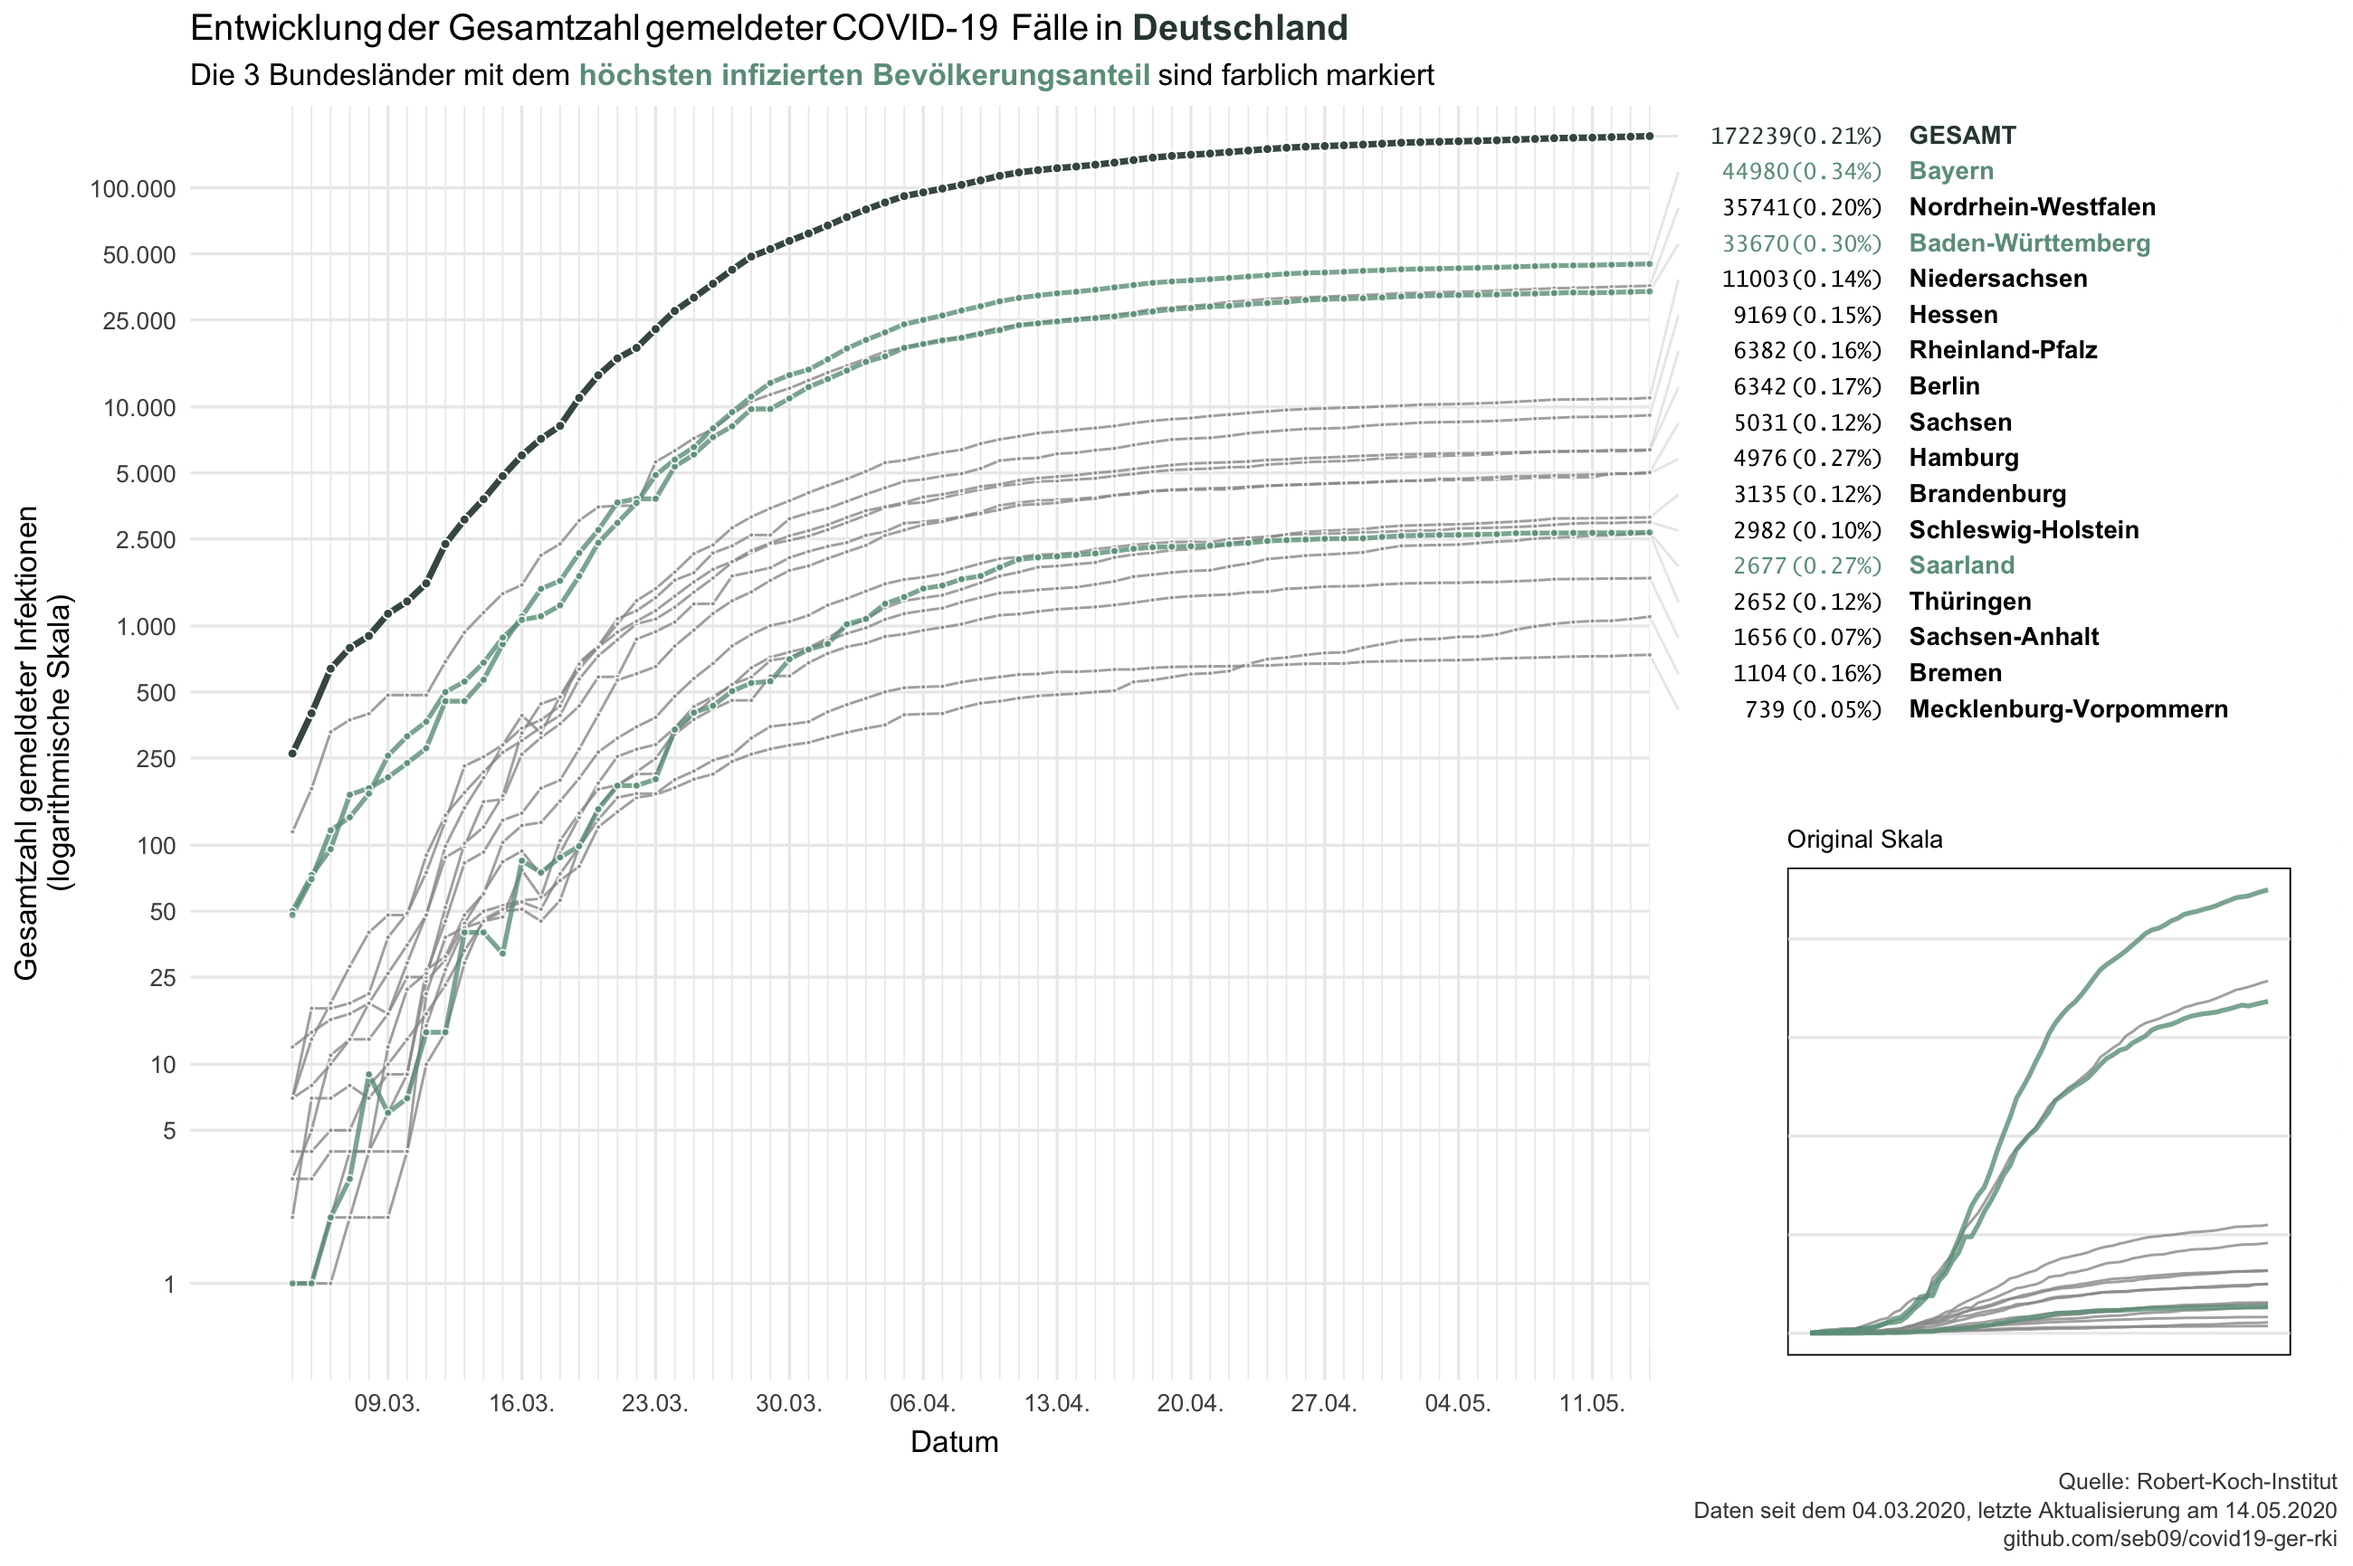
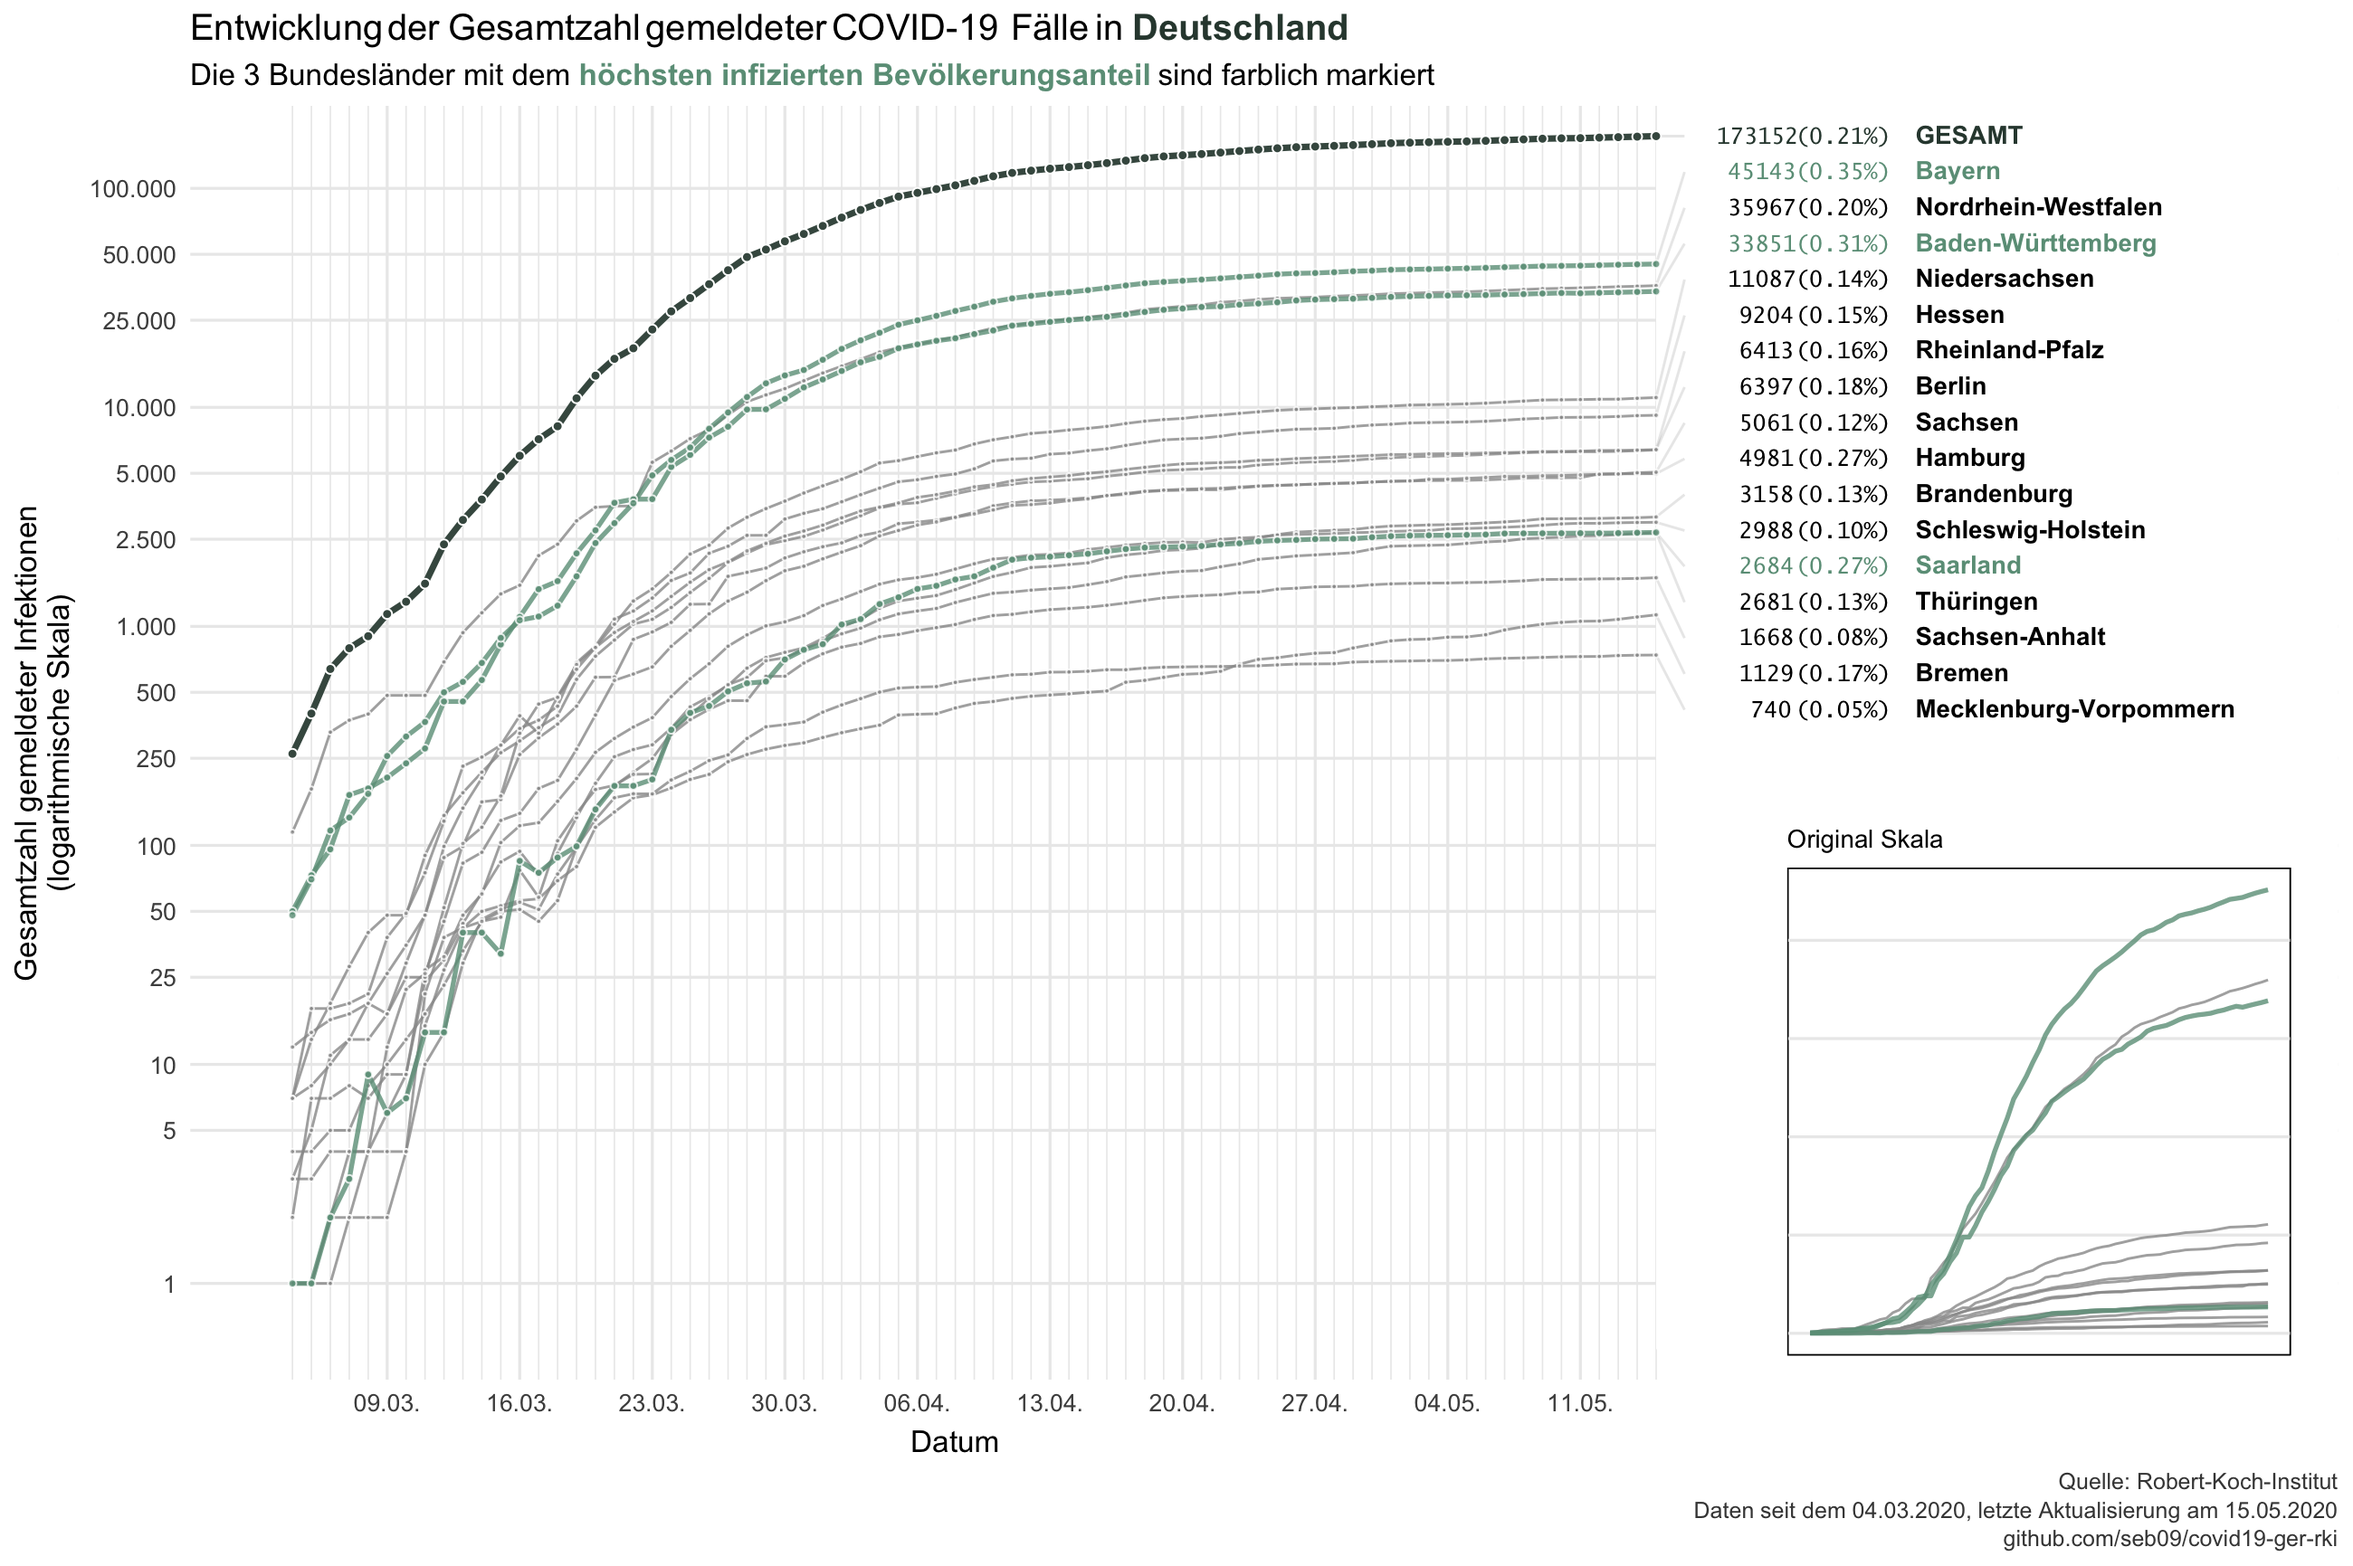
daily update 2020-05-15

diff --git a/README.md b/README.md
@@ -1,6 +1,6 @@
 Data from the Robert-Koch-Institut on COVID-19 in Germany
 ================
-Last update: 2020-05-14
+Last update: 2020-05-15
 
 This repository contains data on reported COVID-19 cases in Germany and
 its federal states that is published daily by the Robert-Koch-Institut
@@ -14,26 +14,26 @@ corona_rki %>%
   print(n = 16)
 ```
 
-    ## # A tibble: 1,146 x 6
+    ## # A tibble: 1,162 x 6
     ##    Datum      Bundesland      Fallzahl Todeszahl Fallzahl_neu Todeszahl_neu
     ##    <date>     <chr>              <dbl>     <dbl>        <dbl>         <dbl>
-    ##  1 2020-05-14 Baden-Württemb…    33670      1608          152            14
-    ##  2 2020-05-14 Bayern             44980      2229          178            20
-    ##  3 2020-05-14 Berlin              6342       173           44             3
-    ##  4 2020-05-14 Brandenburg         3135       138           10             1
-    ##  5 2020-05-14 Bremen              1104        37           27             1
-    ##  6 2020-05-14 Hamburg             4976       228            4             5
-    ##  7 2020-05-14 Hessen              9169       423           82             4
-    ##  8 2020-05-14 Mecklenburg-Vo…      739        20            3             0
-    ##  9 2020-05-14 Niedersachsen      11003       524          100            16
-    ## 10 2020-05-14 Nordrhein-West…    35741      1483          186            10
-    ## 11 2020-05-14 Rheinland-Pfalz     6382       212           22             5
-    ## 12 2020-05-14 Saarland            2677       145           10             1
-    ## 13 2020-05-14 Sachsen             5031       195           69             4
-    ## 14 2020-05-14 Sachsen-Anhalt      1656        52            6             0
-    ## 15 2020-05-14 Schleswig-Hols…     2982       125           10             0
-    ## 16 2020-05-14 Thüringen           2652       131           30             5
-    ## # … with 1,130 more rows
+    ##  1 2020-05-15 Baden-Württemb…    33851      1628          181            20
+    ##  2 2020-05-15 Bayern             45143      2260          163            31
+    ##  3 2020-05-15 Berlin              6397       177           55             4
+    ##  4 2020-05-15 Brandenburg         3158       148           23            10
+    ##  5 2020-05-15 Bremen              1129        37           25             0
+    ##  6 2020-05-15 Hamburg             4981       228            5             0
+    ##  7 2020-05-15 Hessen              9204       429           35             6
+    ##  8 2020-05-15 Mecklenburg-Vo…      740        20            1             0
+    ##  9 2020-05-15 Niedersachsen      11087       534           84            10
+    ## 10 2020-05-15 Nordrhein-West…    35967      1493          226            10
+    ## 11 2020-05-15 Rheinland-Pfalz     6413       213           31             1
+    ## 12 2020-05-15 Saarland            2684       147            7             2
+    ## 13 2020-05-15 Sachsen             5061       195           30             0
+    ## 14 2020-05-15 Sachsen-Anhalt      1668        54           12             2
+    ## 15 2020-05-15 Schleswig-Hols…     2988       126            6             1
+    ## 16 2020-05-15 Thüringen           2681       135           29             4
+    ## # … with 1,146 more rows
 
 Data is downloaded each day at 11am from the [website of the
 RKI](https://www.rki.de/DE/Content/InfAZ/N/Neuartiges_Coronavirus/Fallzahlen.html)
